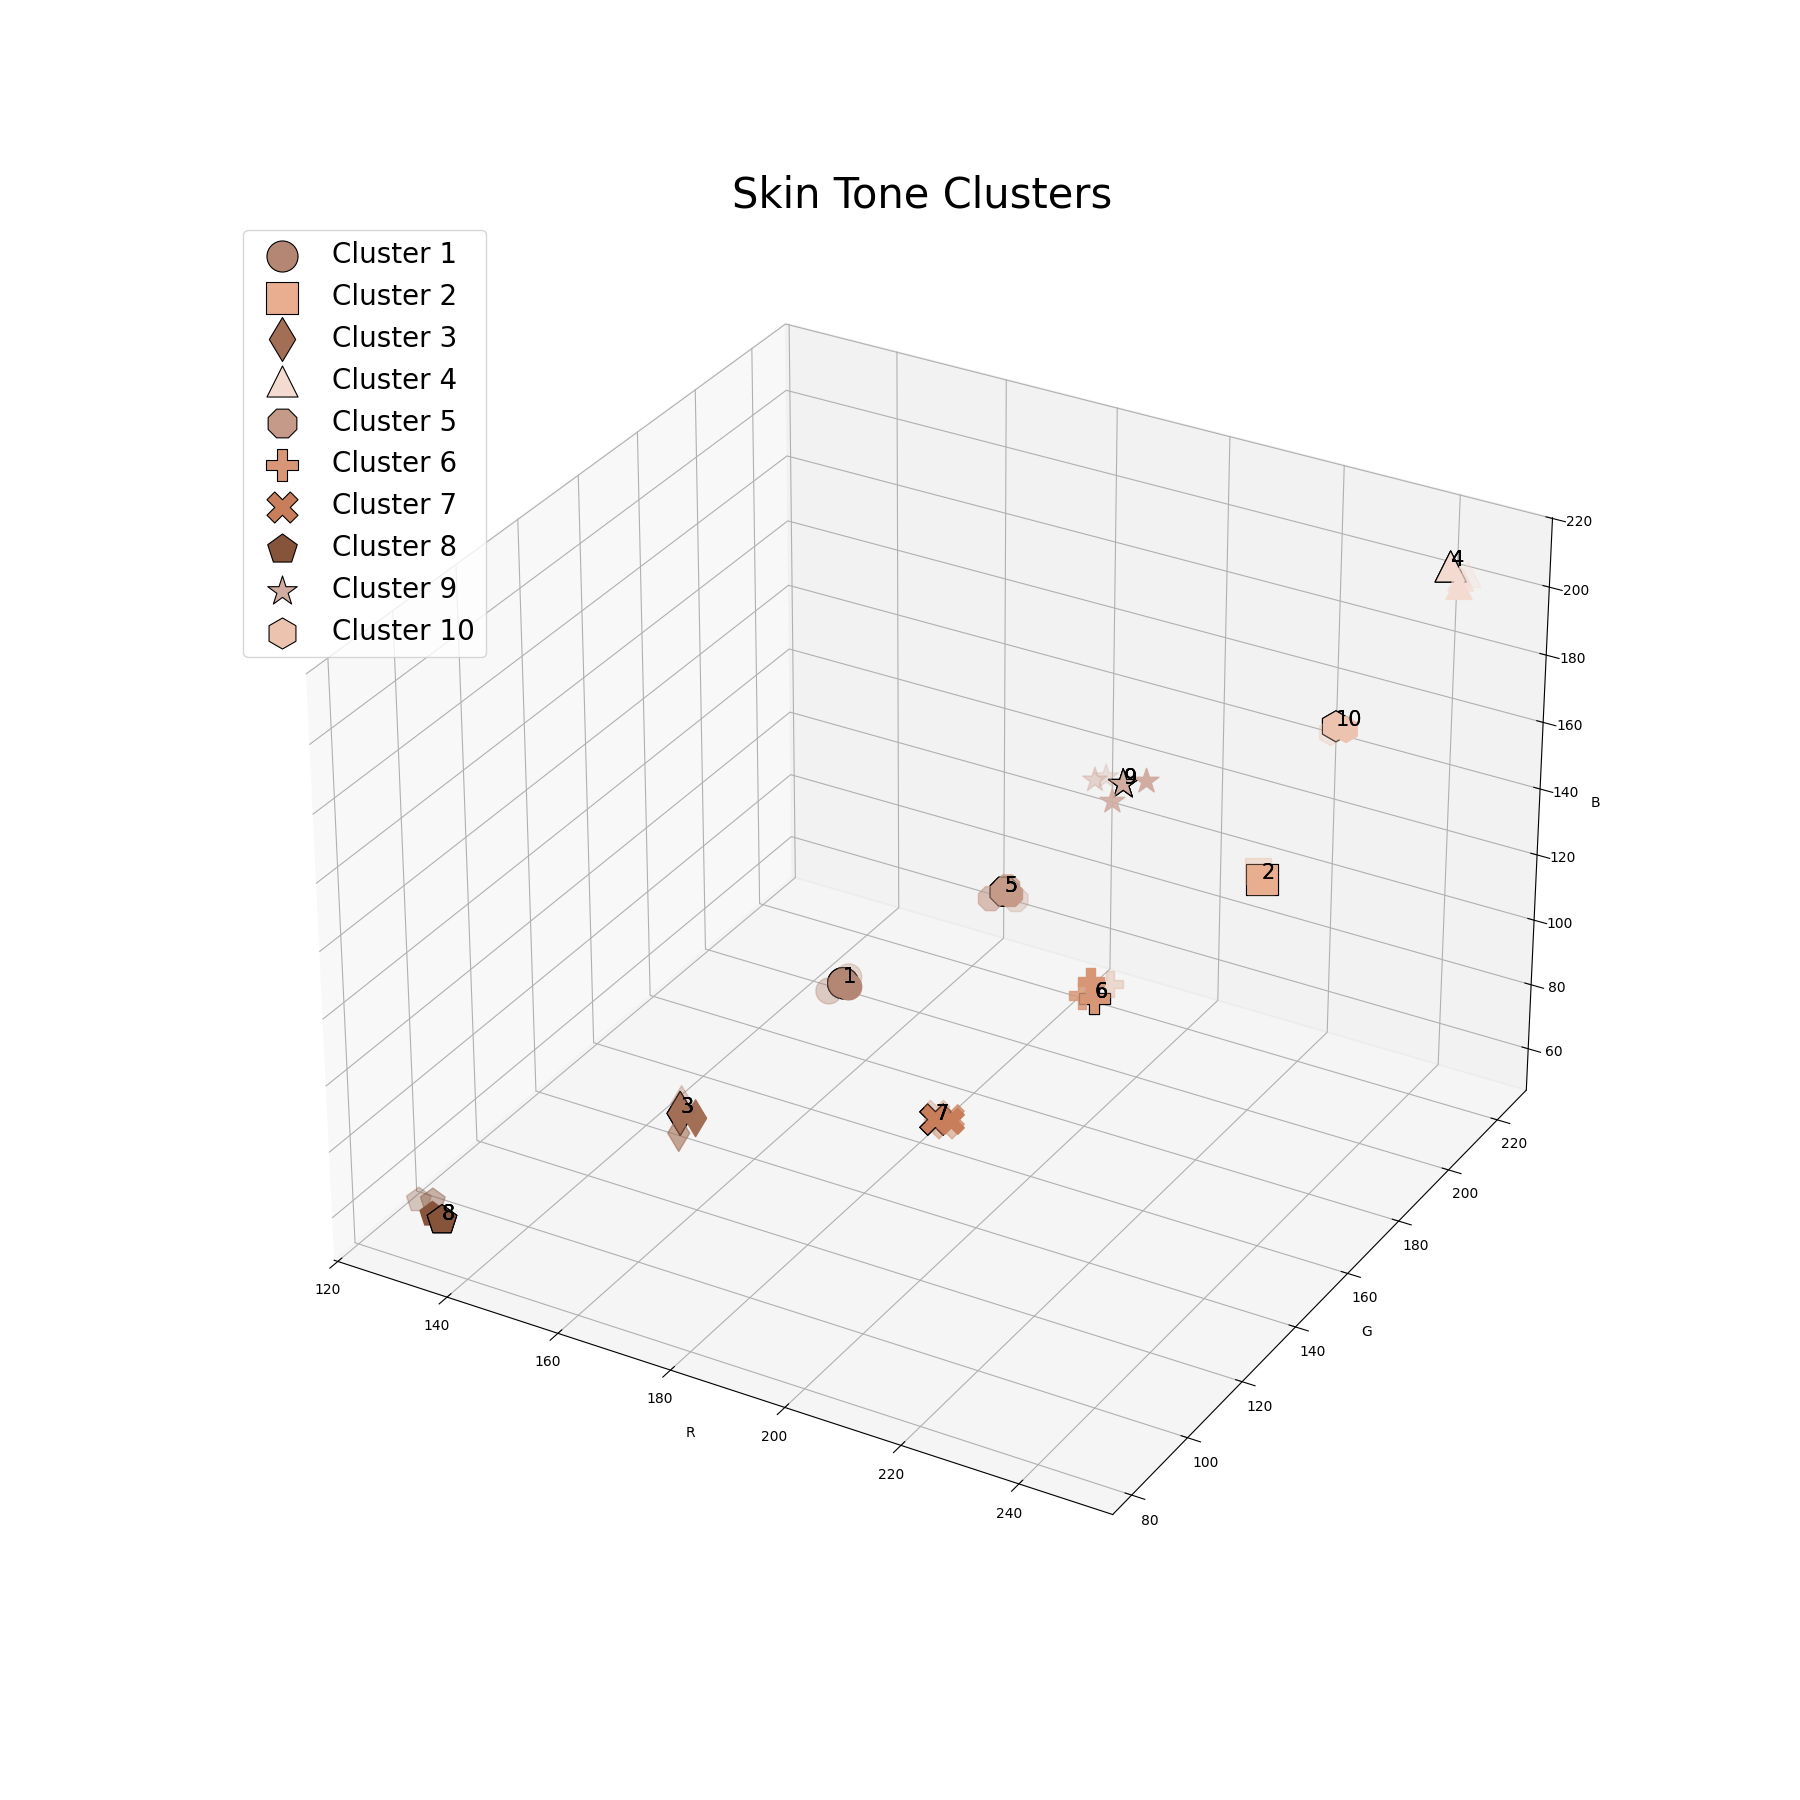
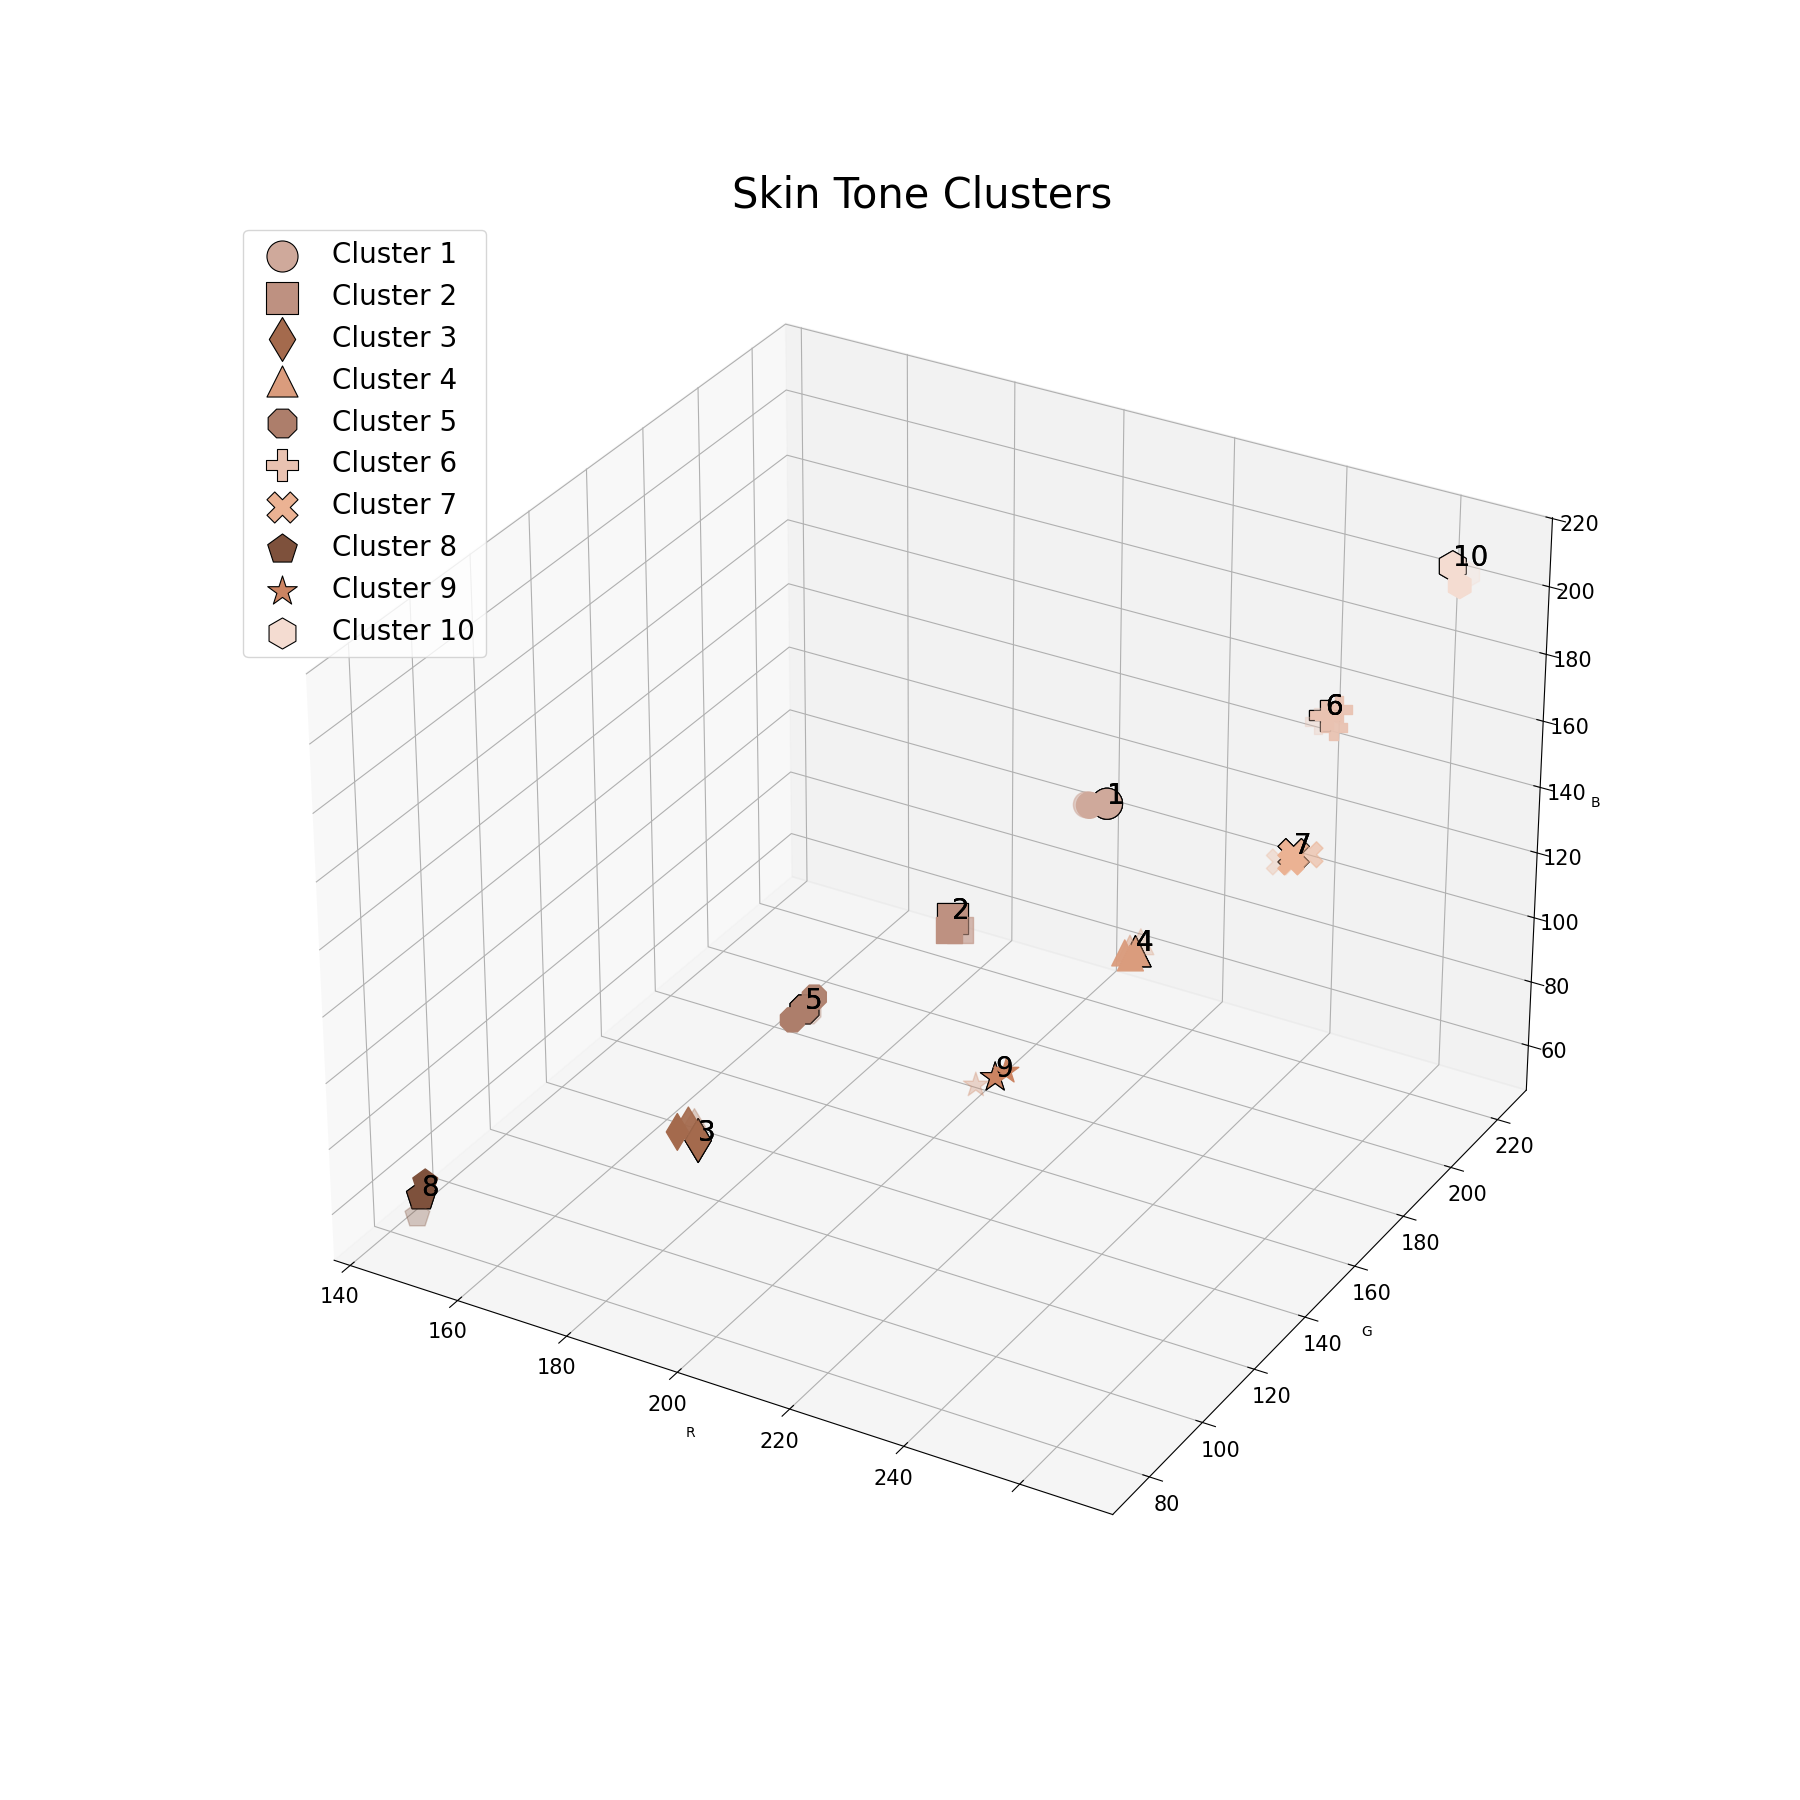
Modified plot

diff --git a/CNN.py b/CNN.py
@@ -135,14 +135,20 @@ def plot_clusters(df):
                    marker=cluster_marker_map[cluster]
                    )
     for i, row in df.iterrows():
-        ax.text(row['Cluster_R'], row['Cluster_G'], row['Cluster_B'], str(row['Cluster'] + 1), size=15, zorder=100)
+        ax.text(row['Cluster_R'], row['Cluster_G'], row['Cluster_B'], str(row['Cluster'] + 1), size=20, zorder=100)
     ax.set_xlabel('R')
     ax.set_ylabel('G')
     ax.set_zlabel('B')
+    ax.set_xticklabels((np.arange(120, 251, 20)), fontsize=15)
+    ax.set_yticklabels((np.arange(60, 241, 20)), fontsize=15)
+    ax.set_zticklabels((np.arange(40, 221, 20)), fontsize=15)
     ax.set_title('Skin Tone Clusters', fontsize=30)
     ax.legend(fontsize=20, loc='upper left')
     plt.savefig('skin_tone_clusters.png')
     plt.show()
+
+    # change to monk skin tone scale instead
+    # 2d plot
 
 def save_representatives(clustering_df):
     # clustering df structure
